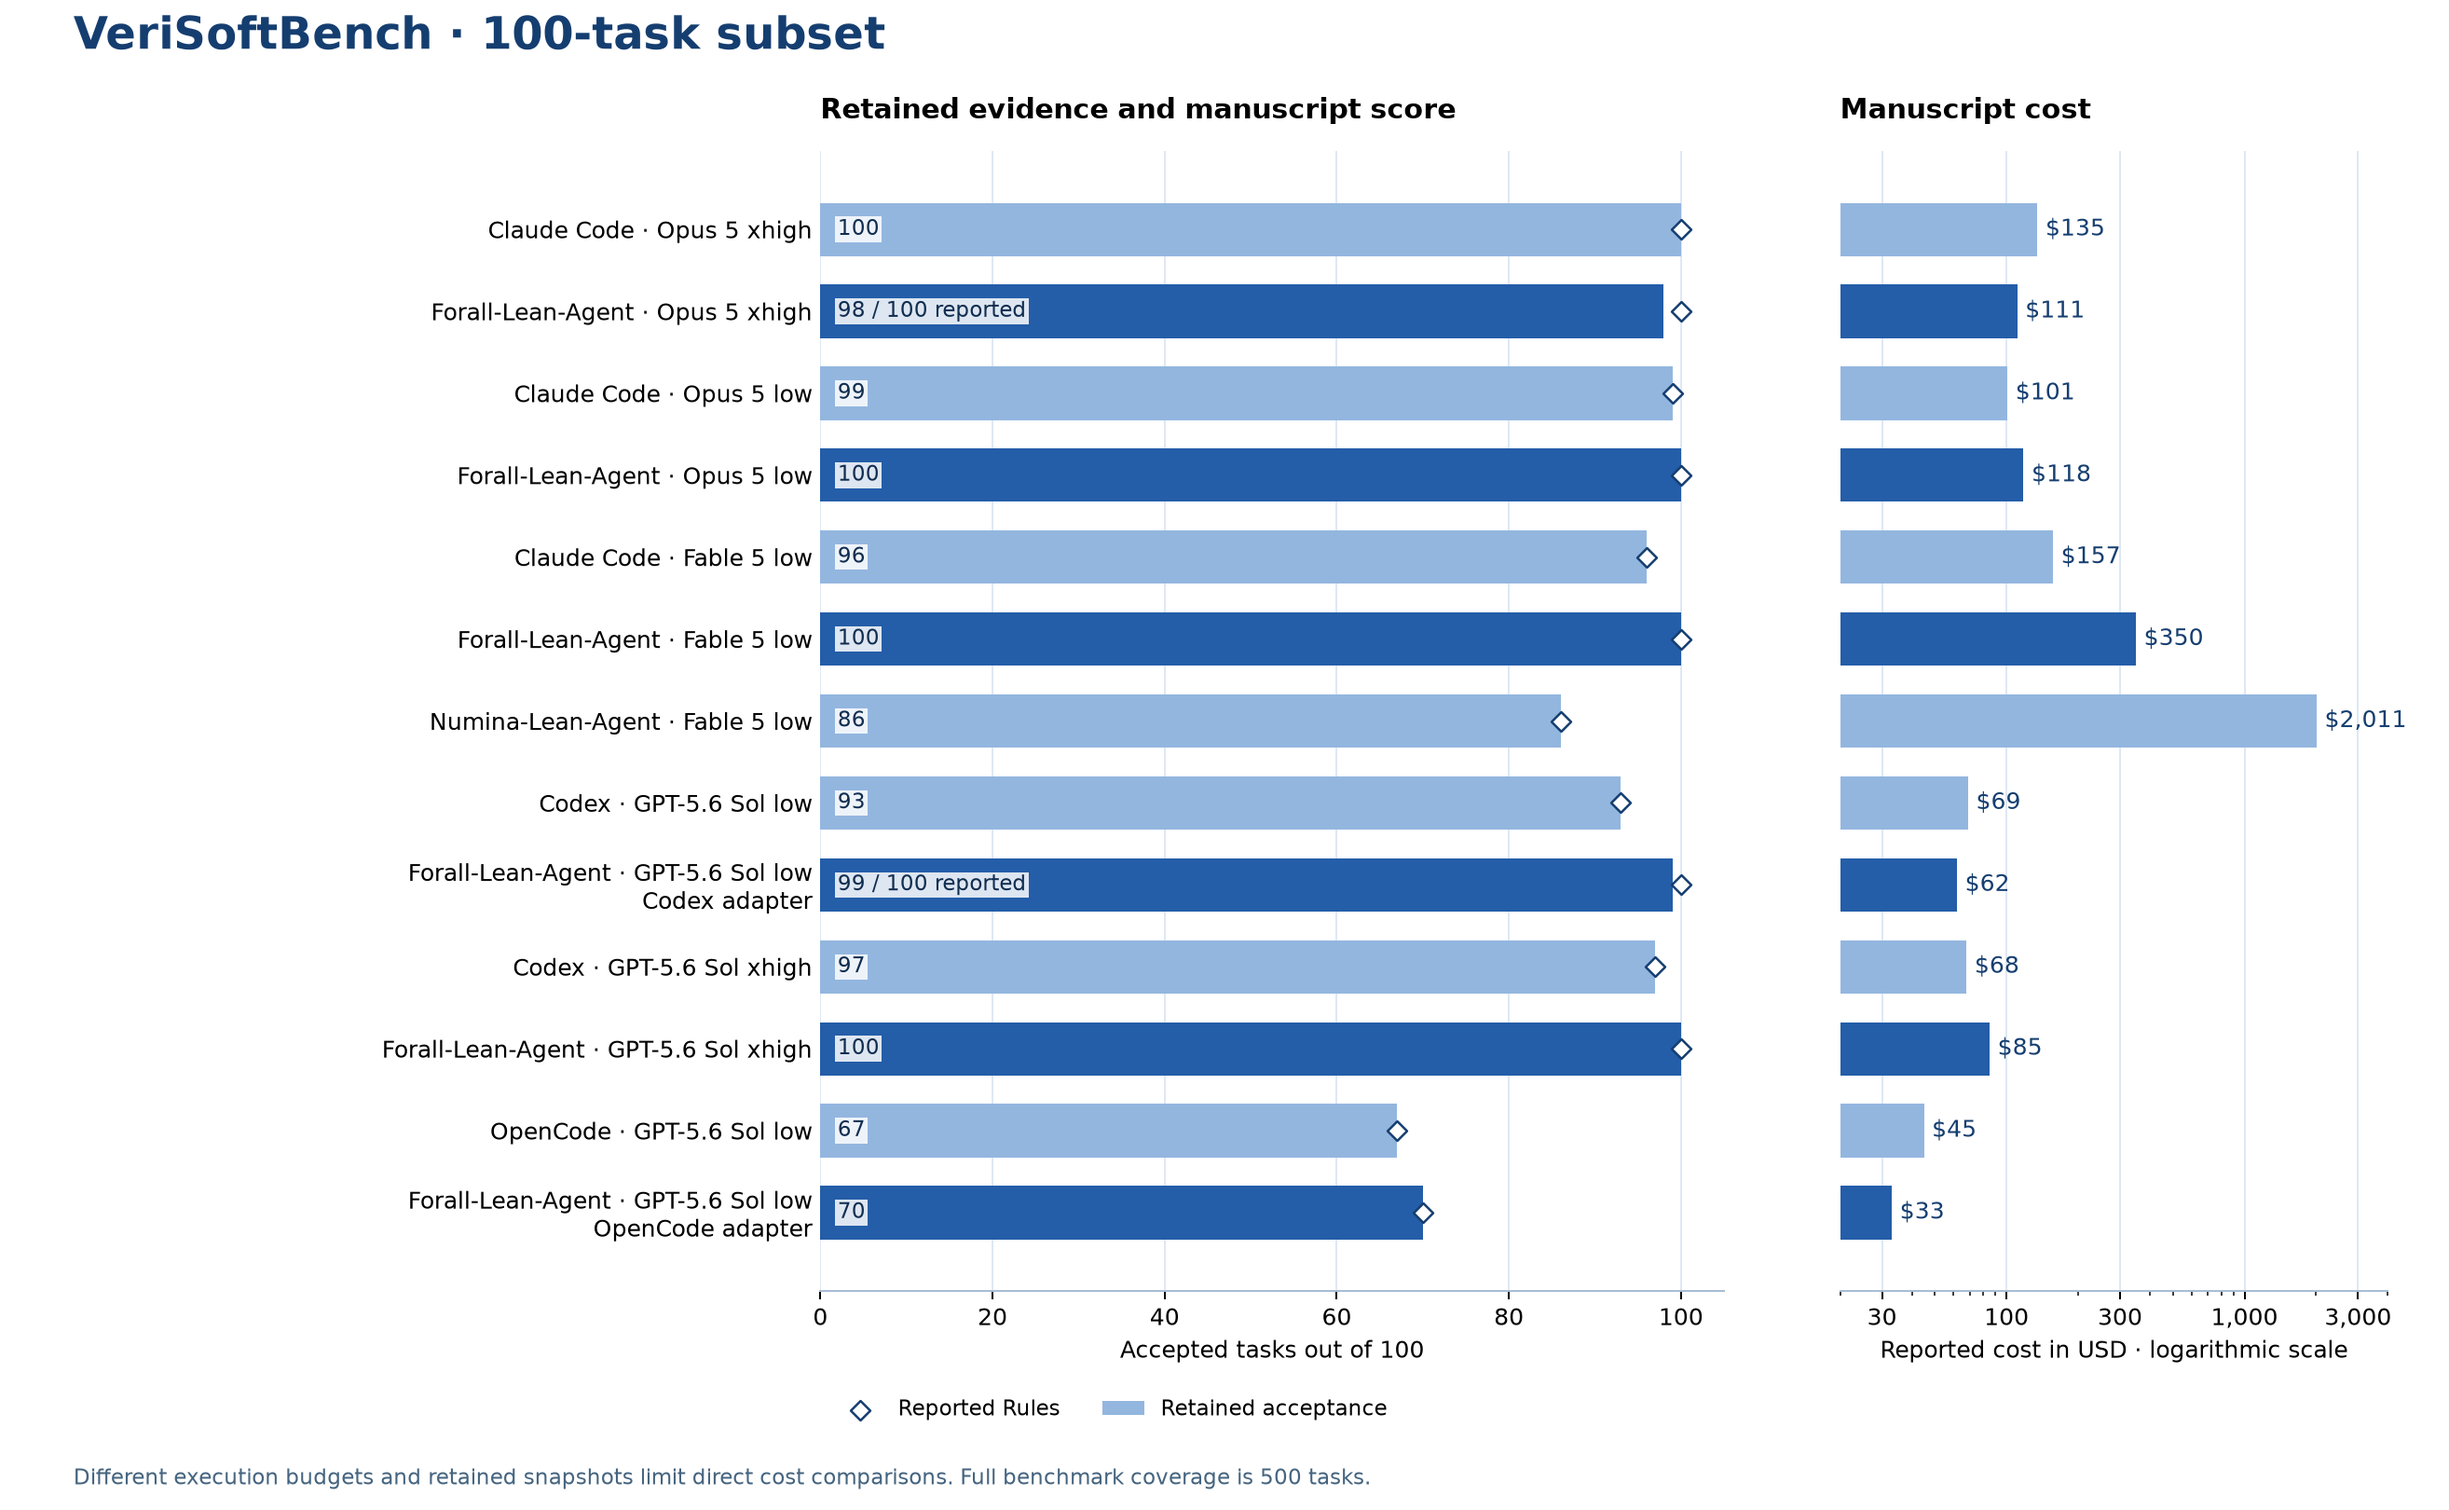
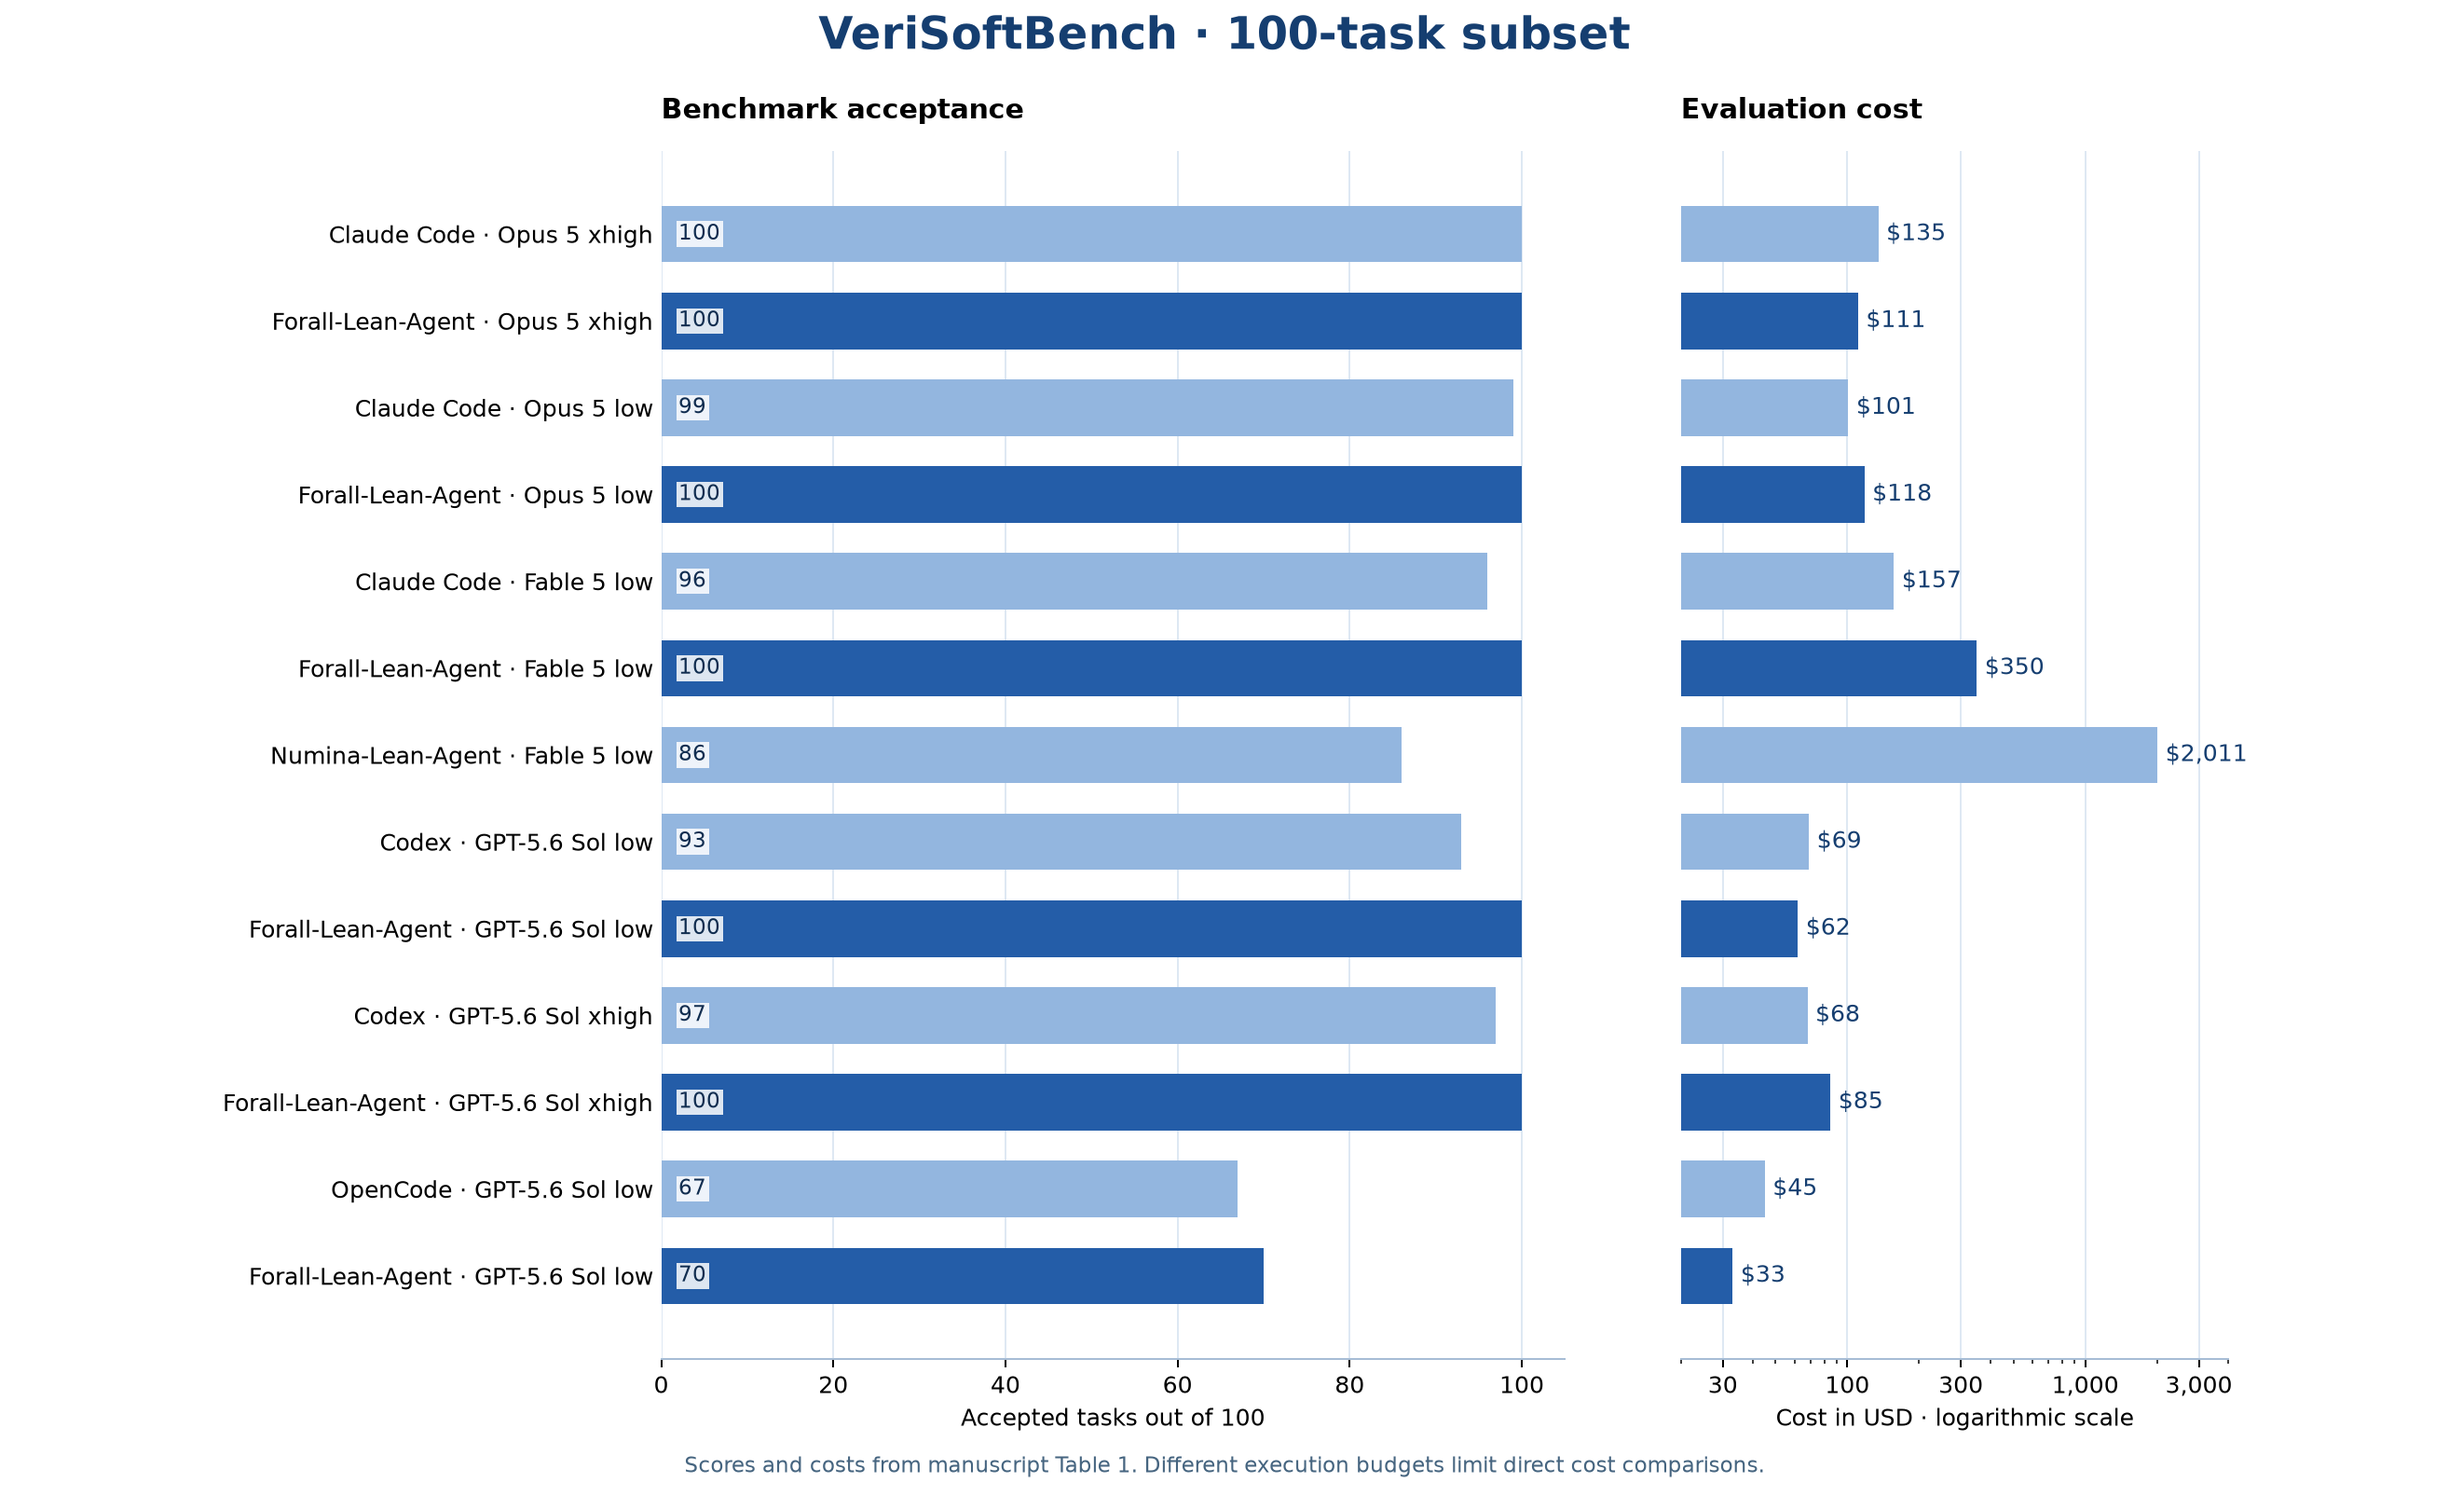
Center evaluation figure and simplify chart labels

diff --git a/scripts/summarize.py b/scripts/summarize.py
@@ -73,27 +73,24 @@ def plot(data,root=ROOT):
     plt.rcParams.update({'font.family':'DejaVu Sans','font.size':10,'axes.spines.top':False,'axes.spines.right':False})
     fig,(left,right)=plt.subplots(1,2,figsize=(14.6,9),gridspec_kw={'width_ratios':[1.65,1]},sharey=True)
     fig.patch.set_facecolor('white')
-    labels=[f"{r['system']} · {r['model']} {r['effort']}"+ ('\n'+r['adapter']+' adapter' if r['system']=='Forall-Lean-Agent' and r['model']=='GPT-5.6 Sol' and r['effort']=='low' else '') for r in rows]
+    labels=[f"{r['system']} · {r['model']} {r['effort']}" for r in rows]
     y=list(range(len(rows)));colors=['#245DA8' if r['system']=='Forall-Lean-Agent' else '#93B6DF' for r in rows]
-    left.barh(y,[r['retained_accepted'] for r in rows],height=.65,color=colors,label='Retained acceptance')
-    left.scatter([r['reported_rules'] for r in rows],y,marker='D',facecolors='white',edgecolors='#153E70',s=35,zorder=4,label='Reported Rules')
+    left.barh(y,[r['reported_rules'] for r in rows],height=.65,color=colors)
     for i,r in enumerate(rows):
-        label=str(r['retained_accepted'])
-        if r['retained_accepted']!=r['reported_rules']:label+=f" / {r['reported_rules']} reported"
+        label=str(r['reported_rules'])
         left.text(2,i,label,va='center',color='#102D50',fontsize=9,bbox=dict(facecolor='white',alpha=.85,edgecolor='none',pad=1))
     left.set_yticks(y,labels);left.invert_yaxis();left.set_xlim(0,105)
-    left.set_xlabel('Accepted tasks out of 100');left.set_title('Retained evidence and manuscript score',loc='left',fontweight='bold',pad=14)
-    left.legend(loc='lower left',bbox_to_anchor=(0,-.13),frameon=False,ncol=2,fontsize=9)
+    left.set_xlabel('Accepted tasks out of 100');left.set_title('Benchmark acceptance',loc='left',fontweight='bold',pad=14)
     right.barh(y,[float(r['reported_cost_usd']) for r in rows],height=.65,color=colors)
     right.set_xscale('log');right.set_xlim(20,4000);right.set_xticks([30,100,300,1000,3000],['30','100','300','1,000','3,000'])
     for i,r in enumerate(rows):right.text(float(r['reported_cost_usd'])*1.08,i,f"${r['reported_cost_usd']:,.0f}",va='center',fontsize=10,color='#153E70')
-    right.tick_params(axis='y',left=False);right.set_xlabel('Reported cost in USD · logarithmic scale');right.set_title('Manuscript cost',loc='left',fontweight='bold',pad=14)
+    right.tick_params(axis='y',left=False);right.set_xlabel('Cost in USD · logarithmic scale');right.set_title('Evaluation cost',loc='left',fontweight='bold',pad=14)
     for ax in [left,right]:
         ax.grid(axis='x',color='#DAE5F2',linewidth=.7);ax.set_axisbelow(True)
         ax.spines['left'].set_visible(False);ax.spines['bottom'].set_color('#A7BDD5');ax.tick_params(axis='y',length=0)
-    fig.suptitle('VeriSoftBench · 100-task subset',x=.03,y=.99,ha='left',fontsize=19,fontweight='bold',color='#153E70')
-    fig.text(.03,.017,'Different execution budgets and retained snapshots limit direct cost comparisons. Full benchmark coverage is 500 tasks.',fontsize=9,color='#466580')
-    fig.subplots_adjust(left=.335,right=.975,top=.9,bottom=.145,wspace=.16)
+    fig.suptitle('VeriSoftBench · 100-task subset',x=.5,y=.99,ha='center',fontsize=19,fontweight='bold',color='#153E70')
+    fig.text(.5,.025,'Scores and costs from manuscript Table 1. Different execution budgets limit direct cost comparisons.',ha='center',fontsize=9,color='#466580')
+    fig.subplots_adjust(left=.27,right=.91,top=.9,bottom=.10,wspace=.16)
     fig.savefig(root/'reports/cost-and-coverage.png',dpi=180,facecolor='white')
     plt.close(fig)
 

diff --git a/README.md b/README.md
@@ -14,7 +14,11 @@ The package contains 1,300 task records across 13 configurations, candidate arti
 - [Generated summary](reports/summary.md) compares reported totals with retained records.
 - [Subset membership](tasks.csv) and [environment pins](environment/benchmark.json) identify the evaluated tasks and dependencies.
 
-![Reported cost and retained acceptance](reports/cost-and-coverage.png)
+<p align="center">
+  <img src="reports/cost-and-coverage.png" alt="Benchmark acceptance and evaluation cost" width="1200">
+</p>
+
+The figure uses the scores and costs from manuscript Table 1.
 
 Reported totals and retained records differ in three places. The manuscript reports 100 for Forall-Lean-Agent with Opus 5 xhigh and GPT-5.6 Sol low through Codex, while the retained snapshots contain 98 and 99 accepted task records. The unaided Fable strict total is 89 in the manuscript and 85 in the retained audit. These differences remain explicit in [RECONCILIATION.md](RECONCILIATION.md). No missing success or audit verdict has been inferred.
 
